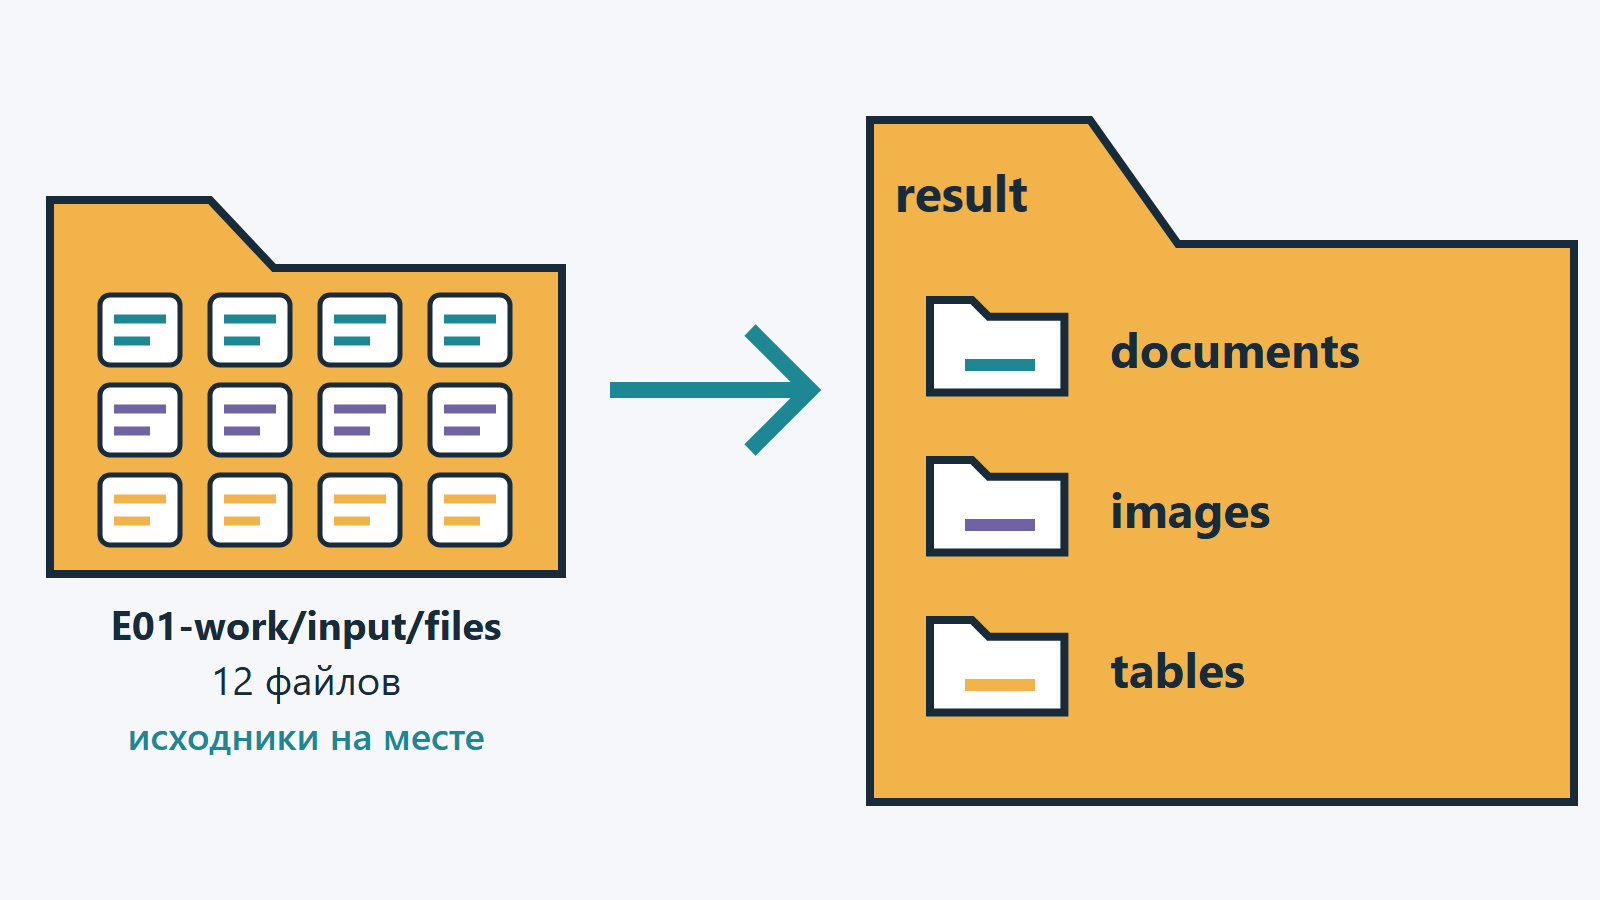
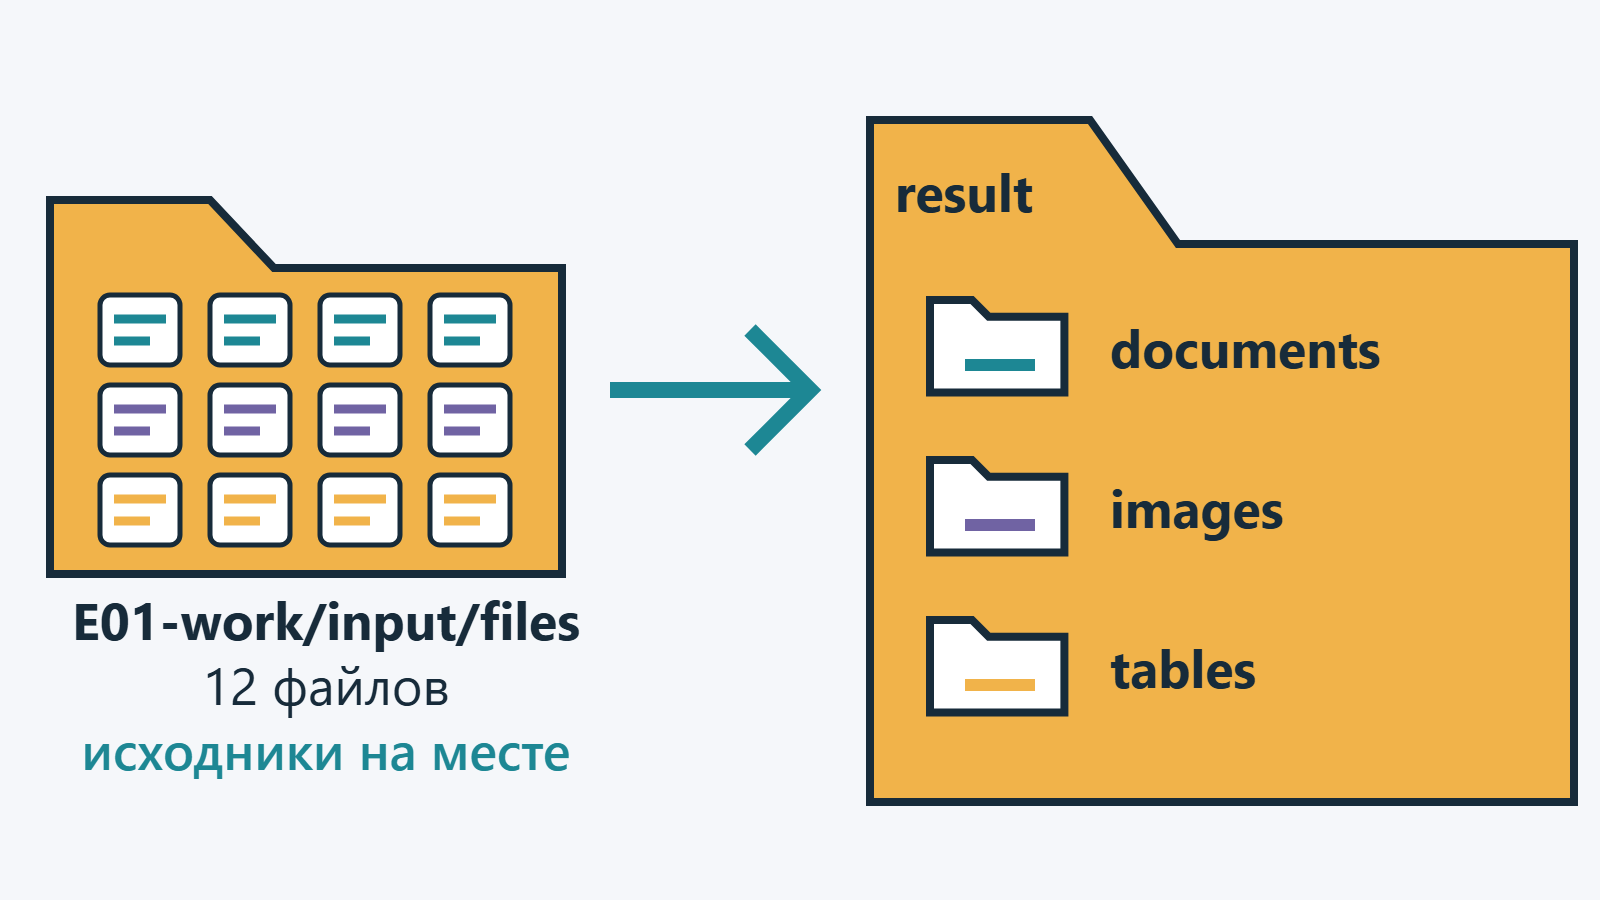
[SA03-figures] Круг 1: R-1, R-3

diff --git a/submissions/arystanabyl/SA03/figures/PROVENANCE.md b/submissions/arystanabyl/SA03/figures/PROVENANCE.md
@@ -12,8 +12,10 @@ AI-генератор изображений не использовался. SV
 Общее для всех рисунков:
 - холст `width="1600" height="900" viewBox="0 0 1600 900"`, фон `#f5f7fa`;
 - палитра `#172b3a`, `#1d8794`, `#f1b34a`, `#7063a3` и белый; галочка «OK» — `#1d8794`;
-- шрифт меток `Segoe UI, Arial, sans-serif` (блок команды на fig-06 — `Consolas, monospace`), кегль 36–52 px;
+- шрифт меток `Segoe UI, Arial, sans-serif` (блок команды на fig-06 — `Consolas, monospace`), кегль не менее 52 px;
 - подписи «Рисунок N. …» на рисунки не ставились — их даёт вёрстка.
+
+Изменения: круг 1 — R-1, R-3.
 
 Экспорт PNG: headless Microsoft Edge,
 `msedge.exe --headless=new --disable-gpu --hide-scrollbars --user-data-dir=<TEMP>\sa03-edge --window-size=1600,900 --screenshot=<png> file:///<svg>`.
@@ -21,7 +23,7 @@ AI-генератор изображений не использовался. SV
 
 | Рисунок | Элементы elements.svg (id) | Нарисовано заново |
 |---|---|---|
-| fig-01 | `arrow`, `document` (файл E01.zip), `circle` (основа галочки) | окно браузера с адресной строкой и заголовком Issue #7, кнопка «Скачать комплект», бейдж SHA-256, белая галочка, метки E01.zip и хэш 006F40B1…1382 |
+| fig-01 | `arrow`, `document` (файл E01.zip), `circle` (основа галочки) | окно браузера с адресной строкой и заголовком Issue #7, кнопка «Скачать полный комплект E01.zip», бейдж SHA-256, белая галочка, метки E01.zip и хэш 006F40B1…1382 |
 | fig-02 | `document` (E01.zip, README.md), `arrow`, `folder` (E01-kit, вложенная E01 с белой заливкой, input, checks) | метки |
 | fig-03 | `document` ×2 (README.md, input/rules.md), `circle` (полупрозрачное стекло лупы), `arrow`, `folder` ×3 | обод и ручка лупы, метки категорий documents · images · tables с расширениями |
 | fig-04 | `folder` ×2 (E01-kit, E01-work), `arrow` | замок, продление стрелки (отрезок), плашка «только чтение», метки «копия», «оригинал», «рабочая копия» |
